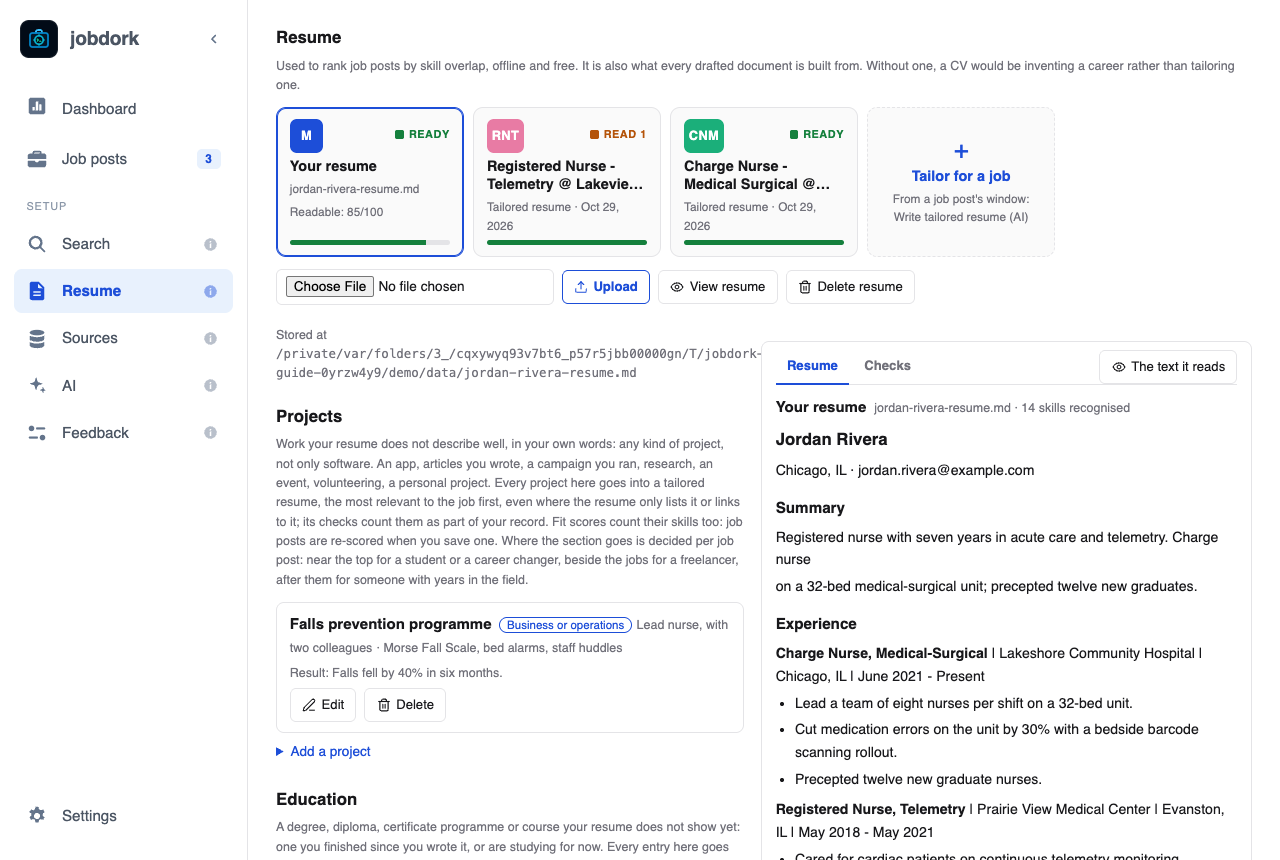
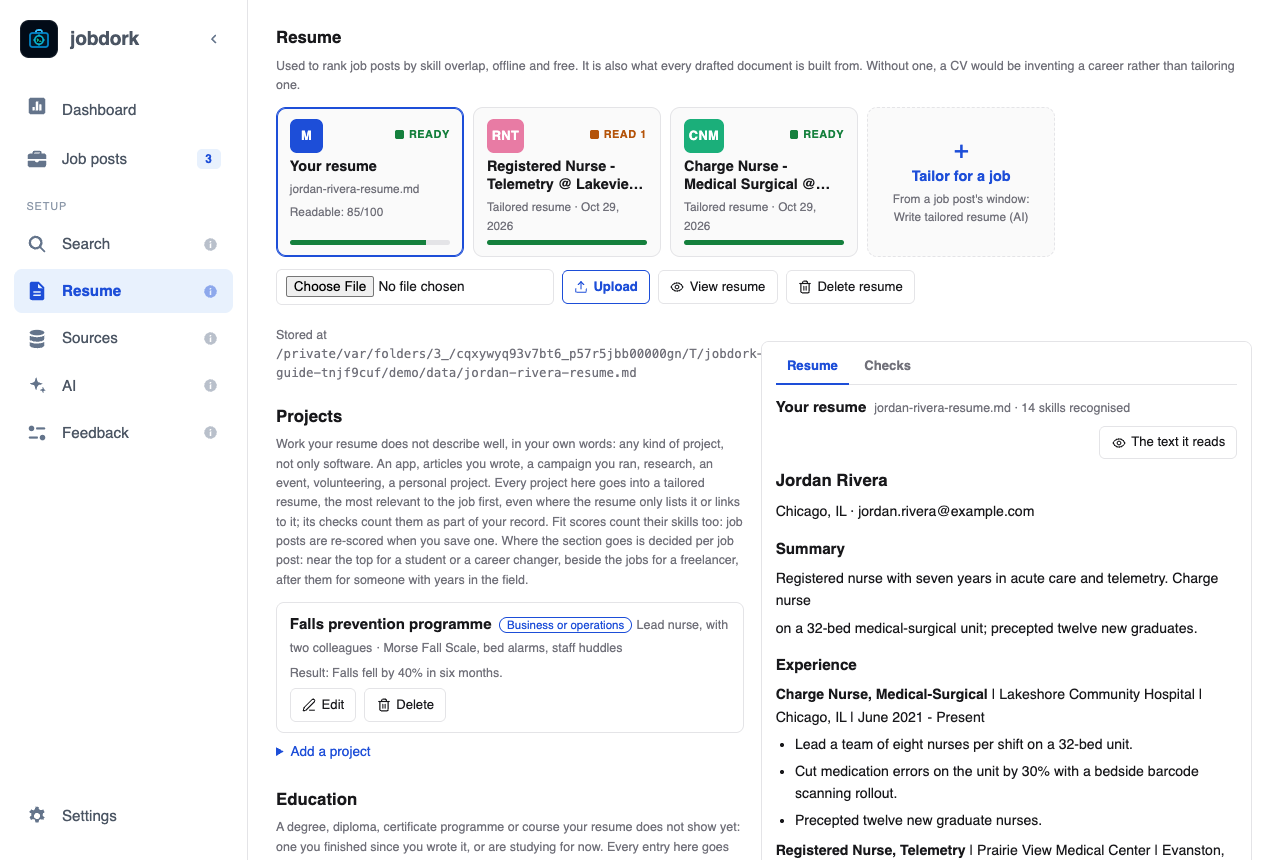
feat: a job post's documents beside its tailored resume (see docs/CHANGELOG.md)

diff --git a/jobdork/data/dashboard.html b/jobdork/data/dashboard.html
@@ -1540,14 +1540,12 @@ main > #view-setup.welcome{max-width:46rem;margin-top:3.5rem}
     <div id="letters"></div>
     </div>
     <aside class="rpreview panel" id="rpreview" aria-label="Preview">
-      <div class="rptabs" role="tablist">
-        <button type="button" role="tab" data-rtab="doc" class="on">Resume</button>
-        <button type="button" role="tab" data-rtab="checks">Checks</button>
-        <span class="rpact" id="rp-acts"></span>
-      </div>
-      <div class="rp-head"><b id="rp-title"></b><span class="hint" id="rp-sub"></span></div>
+      <div class="rptabs" role="tablist" id="rp-tabs"></div>
+      <div class="rp-head"><b id="rp-title"></b><span class="hint" id="rp-sub"></span>
+        <span class="rpact" id="rp-acts"></span></div>
       <div id="rp-doc"></div>
       <div id="rp-checks" hidden><div id="resume-readable" hidden></div><div id="rp-gates"></div></div>
+      <div id="rp-other" hidden></div>
     </aside>
     </div>
   </section>
@@ -2467,30 +2465,41 @@ function drawDetail(tab) {
     api('/api/artifact?id=' + art.id).then(async r => {
       if (!r.ok) { $('dlg-body').innerHTML = body + `<p class="err">${esc(await r.text())}</p>`; return; }
       const doc = await r.json();
-      const gates = Object.entries(doc.gates || {}).map(([n, g]) =>
-        `<div class="gate ${g.passed ? 'pass' : 'fail'}">${g.passed ? 'ok' : 'READ'}: ${esc(n)}, ${esc(g.detail)}${
-          !g.passed && (g.items || []).length
-            ? `<ul>${g.items.slice(0, 12).map(i => `<li>${esc(i)}</li>`).join('')}</ul>` : ''}</div>`).join('');
-      $('dlg-body').innerHTML = body +
-        (gates ? `<div style="margin-bottom:.75rem">${gates}</div>` : '') +
-        (doc.output ? `<div style="margin-bottom:.6rem">${fbButtons(doc.output.id, doc.output.feedback,
-          `Was this ${tabLabel(tab)} useful?`)}</div>` : '') +
-        `<div class="hint" style="margin-bottom:.5rem">${esc(doc.path)}</div>` +
-        (PDF_KINDS.includes(tab) ? `<div class="bar">
-            <button data-icon="external-link" class="act" onclick="artifactPdf(${doc.id}, false)">Open PDF</button>
-            <button data-icon="download" class="act primary" onclick="artifactPdf(${doc.id}, true)">Download PDF</button>
-            <button data-icon="download" class="act" onclick="artifactWord(${doc.id})" title="The same resume as a Word file, to edit before you send it">Download Word</button>
-            <span class="hint">Read it through before you send it.</span></div>` : '') +
-        (tab === 'recruiter_message' ? `<div class="bar">
-            <button type="button" class="act primary" id="copy-msg">Copy message</button>
-            <span class="hint">jobdork never sends it: paste it into LinkedIn or an email yourself.</span></div>` : '') +
-        (['resume_review', 'interview_prep'].includes(tab) || PDF_KINDS.includes(tab)
-          ? `<div class="advert md-doc">${mdLite(PDF_KINDS.includes(tab) ? doc.text : untitled(doc.text))}</div>`
-          : `<div class="advert">${esc(doc.text)}</div>`);
-      if ($('copy-msg')) $('copy-msg').onclick = () => navigator.clipboard.writeText(doc.text.trim())
-        .then(() => toast('Copied'), () => toast('Copying was refused by the browser', 'err'));
+      $('dlg-body').innerHTML = body + docHtml(doc, tab);
+      bindDoc($('dlg-body'), doc);
     });
   }
+}
+
+// One drafted document: its checks, then PDF and Word for a resume or Copy
+// for a message, then its text. The job post's window and the Resume page's
+// preview both show one this way.
+function docHtml(doc, kind) {
+  const gates = Object.entries(doc.gates || {}).map(([n, g]) =>
+    `<div class="gate ${g.passed ? 'pass' : 'fail'}">${g.passed ? 'ok' : 'READ'}: ${esc(n)}, ${esc(g.detail)}${
+      !g.passed && (g.items || []).length
+        ? `<ul>${g.items.slice(0, 12).map(i => `<li>${esc(i)}</li>`).join('')}</ul>` : ''}</div>`).join('');
+  return (gates ? `<div style="margin-bottom:.75rem">${gates}</div>` : '') +
+    (doc.output ? `<div style="margin-bottom:.6rem">${fbButtons(doc.output.id, doc.output.feedback,
+      `Was this ${tabLabel(kind)} useful?`)}</div>` : '') +
+    `<div class="hint" style="margin-bottom:.5rem">${esc(doc.path)}</div>` +
+    (PDF_KINDS.includes(kind) ? `<div class="bar">
+        <button data-icon="external-link" class="act" onclick="artifactPdf(${doc.id}, false)">Open PDF</button>
+        <button data-icon="download" class="act primary" onclick="artifactPdf(${doc.id}, true)">Download PDF</button>
+        <button data-icon="download" class="act" onclick="artifactWord(${doc.id})" title="The same resume as a Word file, to edit before you send it">Download Word</button>
+        <span class="hint">Read it through before you send it.</span></div>` : '') +
+    (kind === 'recruiter_message' ? `<div class="bar">
+        <button type="button" class="act primary copy-msg">Copy message</button>
+        <span class="hint">jobdork never sends it: paste it into LinkedIn or an email yourself.</span></div>` : '') +
+    (['resume_review', 'interview_prep'].includes(kind) || PDF_KINDS.includes(kind)
+      ? `<div class="advert md-doc">${mdLite(PDF_KINDS.includes(kind) ? doc.text : untitled(doc.text))}</div>`
+      : `<div class="advert">${esc(doc.text)}</div>`);
+}
+
+function bindDoc(box, doc) {
+  const copy = box.querySelector('.copy-msg');
+  if (copy) copy.onclick = () => navigator.clipboard.writeText(doc.text.trim())
+    .then(() => toast('Copied'), () => toast('Copying was refused by the browser', 'err'));
 }
 
 // ── ATS match (search/ats.py) ────────────────────────────────────────────────
@@ -2498,8 +2507,7 @@ function drawDetail(tab) {
 // the score and its parts as bars, then the advert's skills you have, could
 // add (in your projects, education or confirmed skills) and lack, each of
 // the last with "I have this".
-async function drawAts(uid) {
-  const out = $('ats-out');
+async function drawAts(uid, out = $('ats-out')) {
   const r = await api('/api/ats?uid=' + encodeURIComponent(uid));
   if (!out.isConnected) return;
   if (!r.ok) { out.innerHTML = `<p class="hint">${esc(cap(await r.text()))}.</p>`; return; }
@@ -2526,13 +2534,14 @@ async function drawAts(uid) {
     ${a.confirmed.length ? `<p class="hint">You confirmed: ${a.confirmed.map(t => `${esc(skillName(t))}
       <button type="button" class="act linkish" data-unhave="${esc(t)}">take back</button>`).join(', ')}</p>` : ''}
     ${a.advice.length ? `<h4>What to do</h4><ul class="atsadvice">${a.advice.map(t => `<li>${esc(t)}</li>`).join('')}</ul>` : ''}
-    <p class="hint" id="ats-msg"></p>`;
+    <p class="hint ats-msg"></p>`;
   const send = async (term, have) => {
     const r = await api('/api/skills/confirm', {method: 'POST', body: form({term, have: have ? '1' : '0'})});
-    if (!r.ok) { $('ats-msg').className = 'err'; $('ats-msg').textContent = cap(await r.text()); return; }
+    const msg = out.querySelector('.ats-msg');
+    if (!r.ok) { msg.className = 'err ats-msg'; msg.textContent = cap(await r.text()); return; }
     const d = await r.json();
     toast(`${skillName(term)} ${have ? 'added to your skills' : 'taken back'}. ${d.rescore || ''}`);
-    drawAts(uid);
+    drawAts(uid, out);
   };
   out.querySelectorAll('[data-have]').forEach(b => b.onclick = () => send(b.dataset.have, true));
   out.querySelectorAll('[data-unhave]').forEach(b => b.onclick = () => send(b.dataset.unhave, false));
@@ -5691,13 +5700,63 @@ function renderResumeCards() {
   });
 }
 
-document.querySelectorAll('[data-rtab]').forEach(b => b.onclick = () => {
-  rtab = b.dataset.rtab;
-  document.querySelectorAll('[data-rtab]').forEach(x => {
-    x.classList.toggle('on', x === b); x.setAttribute('aria-selected', String(x === b)); });
+// The preview's tabs. Your resume: the file and how a tracking system reads
+// it. A tailored one: the resume, then the job post's other documents and
+// its ATS match, then the resume's checks.
+const RDOCS = ['cover_letter', 'recruiter_message', 'interview_prep', 'resume_review'];
+function rtabsFor(doc) {
+  if (!doc) return ['doc', 'checks'];
+  return ['doc', ...RDOCS.filter(k => k !== 'resume_review' || (doc.docs || {})[k]),
+          ...(doc.uid ? ['ats'] : []), 'checks'];
+}
+
+function drawRTabs() {
+  const doc = rsel === 'master' ? null : rdocs.find(x => x.id === rsel);
+  const tabs = rtabsFor(doc);
+  if (!tabs.includes(rtab)) rtab = 'doc';
+  $('rp-tabs').innerHTML = tabs.map(k => `<button type="button" role="tab" data-rtab="${k}"
+      class="${k === rtab ? 'on' : ''}" aria-selected="${k === rtab}">${
+      k === 'doc' ? 'Resume' : k === 'checks' ? 'Checks' : esc(cap(tabLabel(k)))}</button>`).join('');
+  $('rp-tabs').querySelectorAll('[data-rtab]').forEach(b => b.onclick = () => {
+    rtab = b.dataset.rtab;
+    drawRTabs();
+    showRTab();
+  });
+}
+
+function showRTab() {
   $('rp-doc').hidden = rtab !== 'doc';
   $('rp-checks').hidden = rtab !== 'checks';
-});
+  $('rp-other').hidden = ['doc', 'checks'].includes(rtab);
+  if (!$('rp-other').hidden) drawRDoc(rtab);
+}
+
+// A job post's document or its ATS match, for the chosen tailored resume.
+// One not written yet points to the job post's AI tools, where it is.
+async function drawRDoc(kind) {
+  const box = $('rp-other'), doc = rdocs.find(x => x.id === rsel) || {};
+  const still = () => rtab === kind && rsel === doc.id;
+  if (kind === 'ats') {
+    box.innerHTML = '<p class="hint">Loading…</p>';
+    drawAts(doc.uid, box);
+    return;
+  }
+  const id = (doc.docs || {})[kind];
+  if (!id) {
+    box.innerHTML = `<p class="hint">No ${esc(tabLabel(kind))} for this job post yet.
+      ${doc.uid ? `Write one from the job post's AI tools.</p>
+      <button type="button" class="act" data-icon="sparkles" id="rp-write">Open AI tools</button>` : '</p>'}`;
+    if ($('rp-write')) $('rp-write').onclick = () => openRole(doc.uid, 'tools');
+    return;
+  }
+  box.innerHTML = '<p class="hint">Loading…</p>';
+  const r = await api('/api/artifact?id=' + id);
+  if (!still()) return;
+  if (!r.ok) { box.innerHTML = `<p class="err">${esc(cap(await r.text()))}</p>`; return; }
+  const d = await r.json();
+  box.innerHTML = docHtml(d, kind);
+  bindDoc(box, d);
+}
 
 // A PDF in the preview, from a blob: fetched with the token like every call.
 async function previewPdf(path, title) {
@@ -5709,6 +5768,8 @@ async function previewPdf(path, title) {
 }
 
 async function drawPreview() {
+  drawRTabs();
+  showRTab();
   $('rp-doc').innerHTML = '<p class="hint">Loading…</p>';
   $('rp-gates').innerHTML = '';
   if (rsel === 'master') {

diff --git a/scripts/guide_demo.py b/scripts/guide_demo.py
@@ -266,6 +266,48 @@ def _tailored(store, folder: Path, uids: list[str]) -> None:
                                          "detail": "1 of 9 claims not found in your resume or "
                                          "the advert" if to_read else "every claim found"}}
         store.add_artifact(uid, "tailored_resume", str(path), gates=gates)
+    _documents(store, folder, uids[1])
+
+
+def _documents(store, folder: Path, uid: str) -> None:
+    """The newest tailored resume's job post also has a cover letter, a
+    recruiter message and interview prep: the preview's other tabs."""
+    passed = {"hallucination check": {"passed": True, "detail": "every claim found",
+                                      "items": []}}
+    texts = {
+        "cover_letter": (
+            "Dear Hiring Manager,\n\nI am applying for the Registered Nurse, Telemetry "
+            "role at Lakeview Regional Hospital. Since 2021 I have led a team of "
+            "eight nurses per shift on a 32-bed medical-surgical unit, where a bedside "
+            "barcode scanning rollout I ran cut medication errors by 30%.\n\nI hold BLS "
+            "and ACLS and chart in Epic every day. I would welcome the chance to bring "
+            "that to your telemetry unit.\n\nSincerely,\nJordan Rivera\n"),
+        "recruiter_message": (
+            "Hi, I saw the Registered Nurse, Telemetry opening at Lakeview Regional "
+            "Hospital. I am a charge nurse at Lakeshore Community Hospital, where I "
+            "lead eight nurses per shift on a 32-bed unit and ran a barcode scanning "
+            "rollout that cut medication errors by 30%. I hold BLS and ACLS and work "
+            "in Epic daily. Telemetry is where I want to grow next. Would you have ten "
+            "minutes this week to tell me more about the team? Thank you, Jordan\n"),
+        "interview_prep": (
+            "# Interview prep: Registered Nurse, Telemetry at Lakeview Regional Hospital\n\n"
+            "## Why you fit\n\n- Seven years in acute care, five as charge nurse.\n"
+            "- BLS and ACLS current.\n\n"
+            "## Questions about your resume\n\n"
+            "**How did the barcode scanning rollout cut errors by 30%?**\n\n"
+            "- Who you trained, how you tracked errors before and after.\n\n"
+            "**How do you run a shift with eight nurses?**\n\n"
+            "- Assignments, huddles, and one shift that went wrong.\n\n"
+            "## Gaps to prepare\n\n"
+            "- **Telemetry monitoring**: the advert asks for it as a main duty. Say "
+            "what you have done with cardiac patients and how you would learn the rest.\n\n"
+            "## Talking points\n\n- The 30% fall in medication errors.\n"
+            "- Precepting twelve new graduate nurses.\n"),
+    }
+    for kind, text in texts.items():
+        path = folder / "job-applications" / "demo-1" / f"{kind}.md"
+        path.write_text(text, encoding="utf-8")
+        store.add_artifact(uid, kind, str(path), gates=passed)
 
 
 def _checked_for_updates(folder: Path, now: float) -> None:

diff --git a/jobdork/web/api.py b/jobdork/web/api.py
@@ -357,6 +357,14 @@ def list_resumes(cfg) -> dict:
             "r.company FROM artifacts a LEFT JOIN roles r ON r.uid = a.uid "
             "WHERE a.kind IN ('tailored_resume', 'cv') ORDER BY a.created_at DESC, a.id DESC"
         ).fetchall()
+        # The newest of each other document for the same job post: the
+        # preview's tabs beside a tailored resume.
+        docs: dict[str, dict[str, int]] = {}
+        for d in store.conn.execute(
+                "SELECT uid, kind, MAX(id) AS id FROM artifacts WHERE kind IN "
+                "('cover_letter', 'recruiter_message', 'interview_prep', 'resume_review') "
+                "GROUP BY uid, kind").fetchall():
+            docs.setdefault(d["uid"], {})[d["kind"]] = d["id"]
     out = []
     for r in rows:
         gates, _ = _gates(r["gates_json"])
@@ -369,7 +377,8 @@ def list_resumes(cfg) -> dict:
                     "checks": len(gates),
                     "to_read": sum(1 for g in gates.values()
                                    if isinstance(g, dict) and not g.get("passed", True)),
-                    "readable": int(score.group(1)) if score else None})
+                    "readable": int(score.group(1)) if score else None,
+                    "docs": docs.get(r["uid"], {})})
     return {"resumes": out}
 
 

diff --git a/tests/test_writer.py b/tests/test_writer.py
@@ -327,6 +327,15 @@ def test_a_tailored_resume_keeps_to_the_resume_and_is_named_for_the_role():
         card = api.list_resumes(cfg)["resumes"][0]
         assert card["id"] == result.artifact_id and card["exists"] and card["kind"] == "tailored_resume"
         assert card["readable"] == int(readback.detail.split("/")[0]) and card["to_read"] >= 1
+        assert card["docs"] == {}, "no other document for this job post yet"
+        # The job post's other documents become the preview's tabs: the
+        # newest of each kind.
+        with Store(cfg.db_path) as store:
+            store.add_artifact(uid, "cover_letter", str(Path(tmp) / "old.md"))
+            newest = store.add_artifact(uid, "cover_letter", str(Path(tmp) / "new.md"))
+            store.conn.commit()
+        card = api.list_resumes(cfg)["resumes"][0]
+        assert card["docs"] == {"cover_letter": newest}, card["docs"]
         fits = next(g for g in result.gates if g.name == writer.LENGTH_GATE)
         assert fits.passed and fits.detail.startswith("1 page, within the 1 Indeed suggests")
 

diff --git a/docs/CHANGELOG.md b/docs/CHANGELOG.md
@@ -6,6 +6,23 @@ it and into an entry when the work is done.
 
 ---
 
+## Added — 2026-10-29 — A job post's documents beside its tailored resume
+
+On the Resume page, a tailored resume's preview now has a tab for each of
+its job post's other documents, as Resume Matcher's builder has: **Cover
+letter**, **Recruiter message** (with **Copy message**), **Interview prep**,
+**Resume review** when there is one, and the post's **ATS match**, then the
+resume's **Checks**. Everything for one application is in one place. A
+document not written yet says so, with **Open AI tools** (the job post's
+window, where it is written). Choosing another tailored card keeps the tab,
+to compare two cover letters, say. `/api/resumes` gives each card the newest
+of each document for its job post (`docs`); the job post's window and the
+preview draw a document the same way (`docHtml`). The resume's **Job post**,
+**PDF** and **Word** moved beside its title, so the tabs have the row.
+Guide: Resume page, with a new picture of the interview prep tab.
+
+---
+
 ## Added — 2026-10-29 — A job post's ATS match, and "I have this"
 
 Each job post's window has a new **ATS match** tab: your resume file

diff --git a/guide/docs/resume.md b/guide/docs/resume.md
@@ -27,9 +27,20 @@ AI were given from the file.
 A tailored resume's preview has **Job post** (its window), **PDF** and
 **Word**. On a narrow window the preview moves above the rest.
 
+A tailored resume's preview also has a tab for each of its job post's other
+documents, so everything for one application is in one place: **Cover
+letter**, **Recruiter message** (with **Copy message**), **Interview prep**,
+**Resume review** once you have one, and the post's **ATS match** (the same
+as on [its window](job-window.md#ats-match), **I have this** included). One
+not written yet says so, with **Open AI tools**: the job post's window, where
+it is written. Choosing another tailored card keeps the tab, so you can
+compare, say, two cover letters.
+
 ![A tailored resume chosen](images/resume-tailored.png)
 
 ![Its checks](images/resume-checks.png)
+
+![Its interview prep](images/resume-interview-prep.png)
 
 ## Your resume
 
